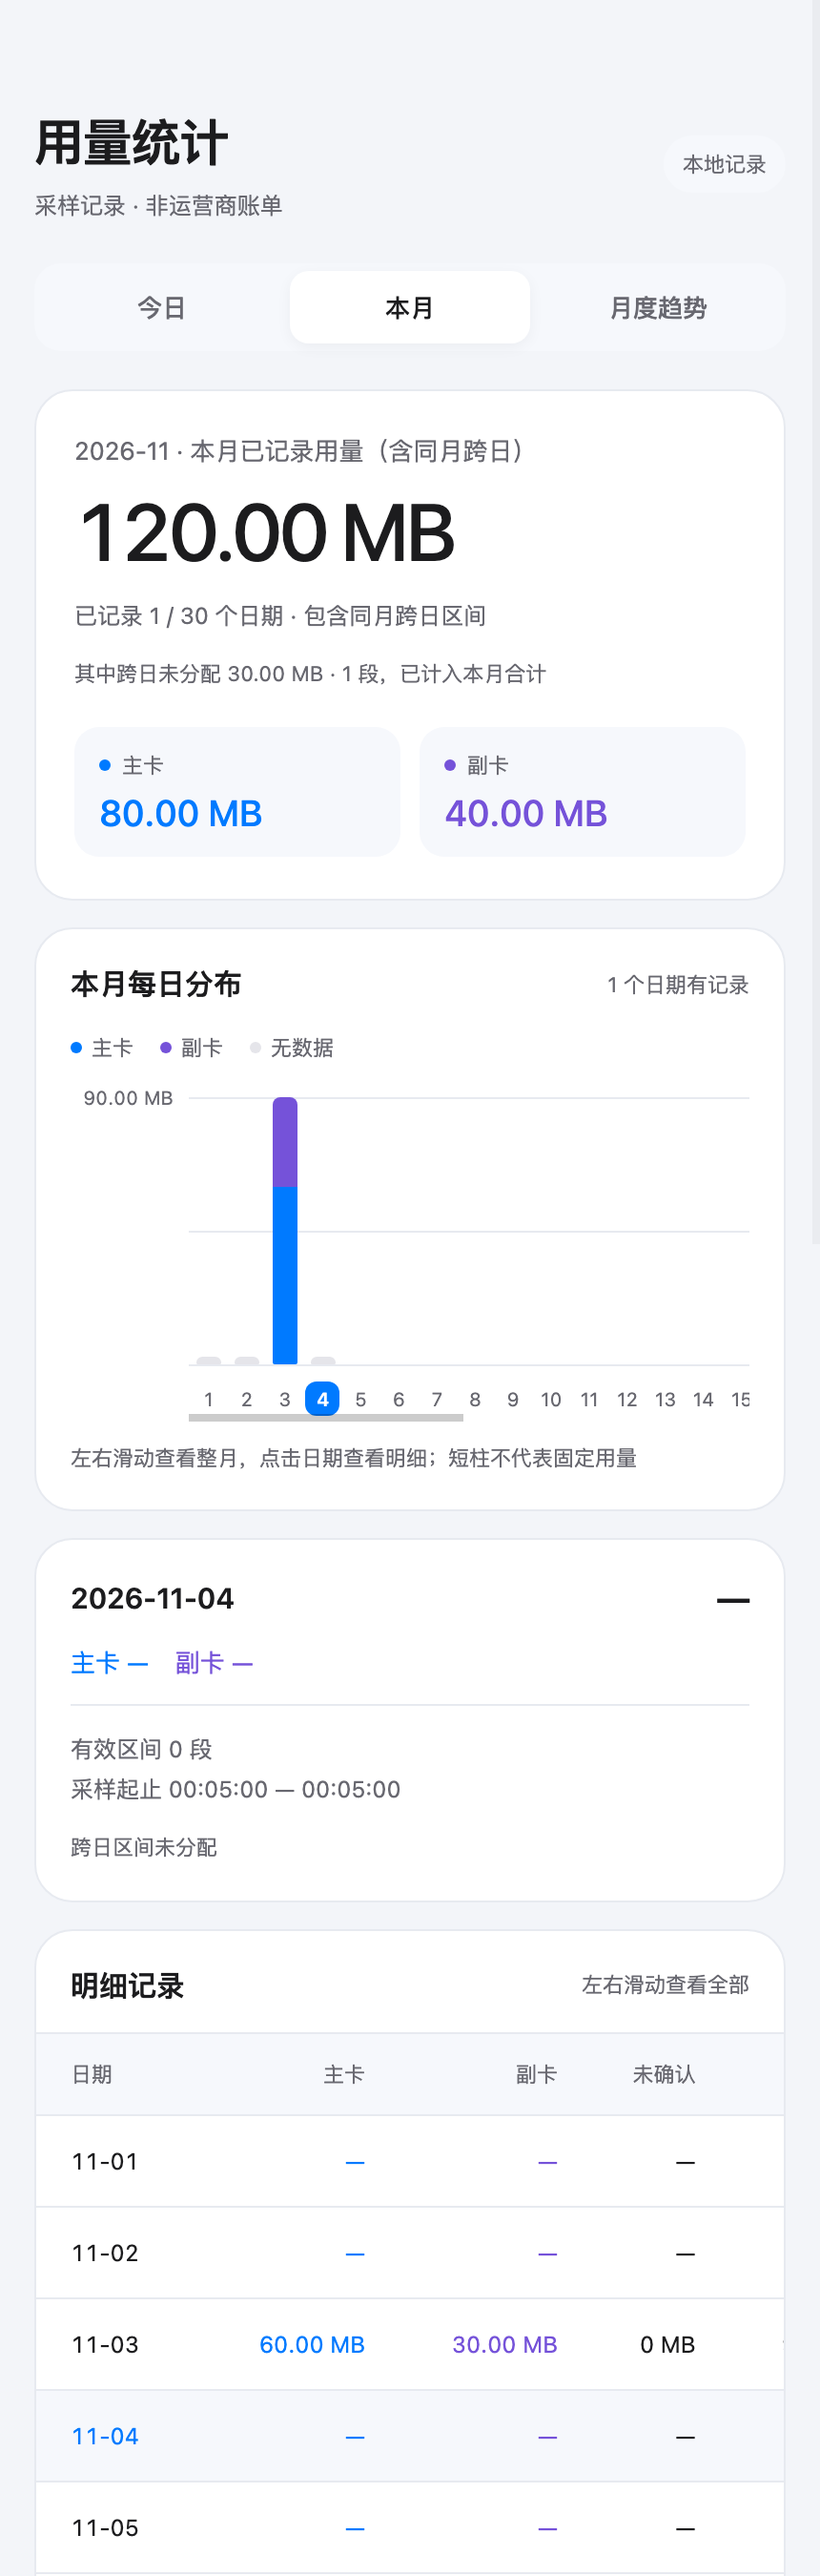
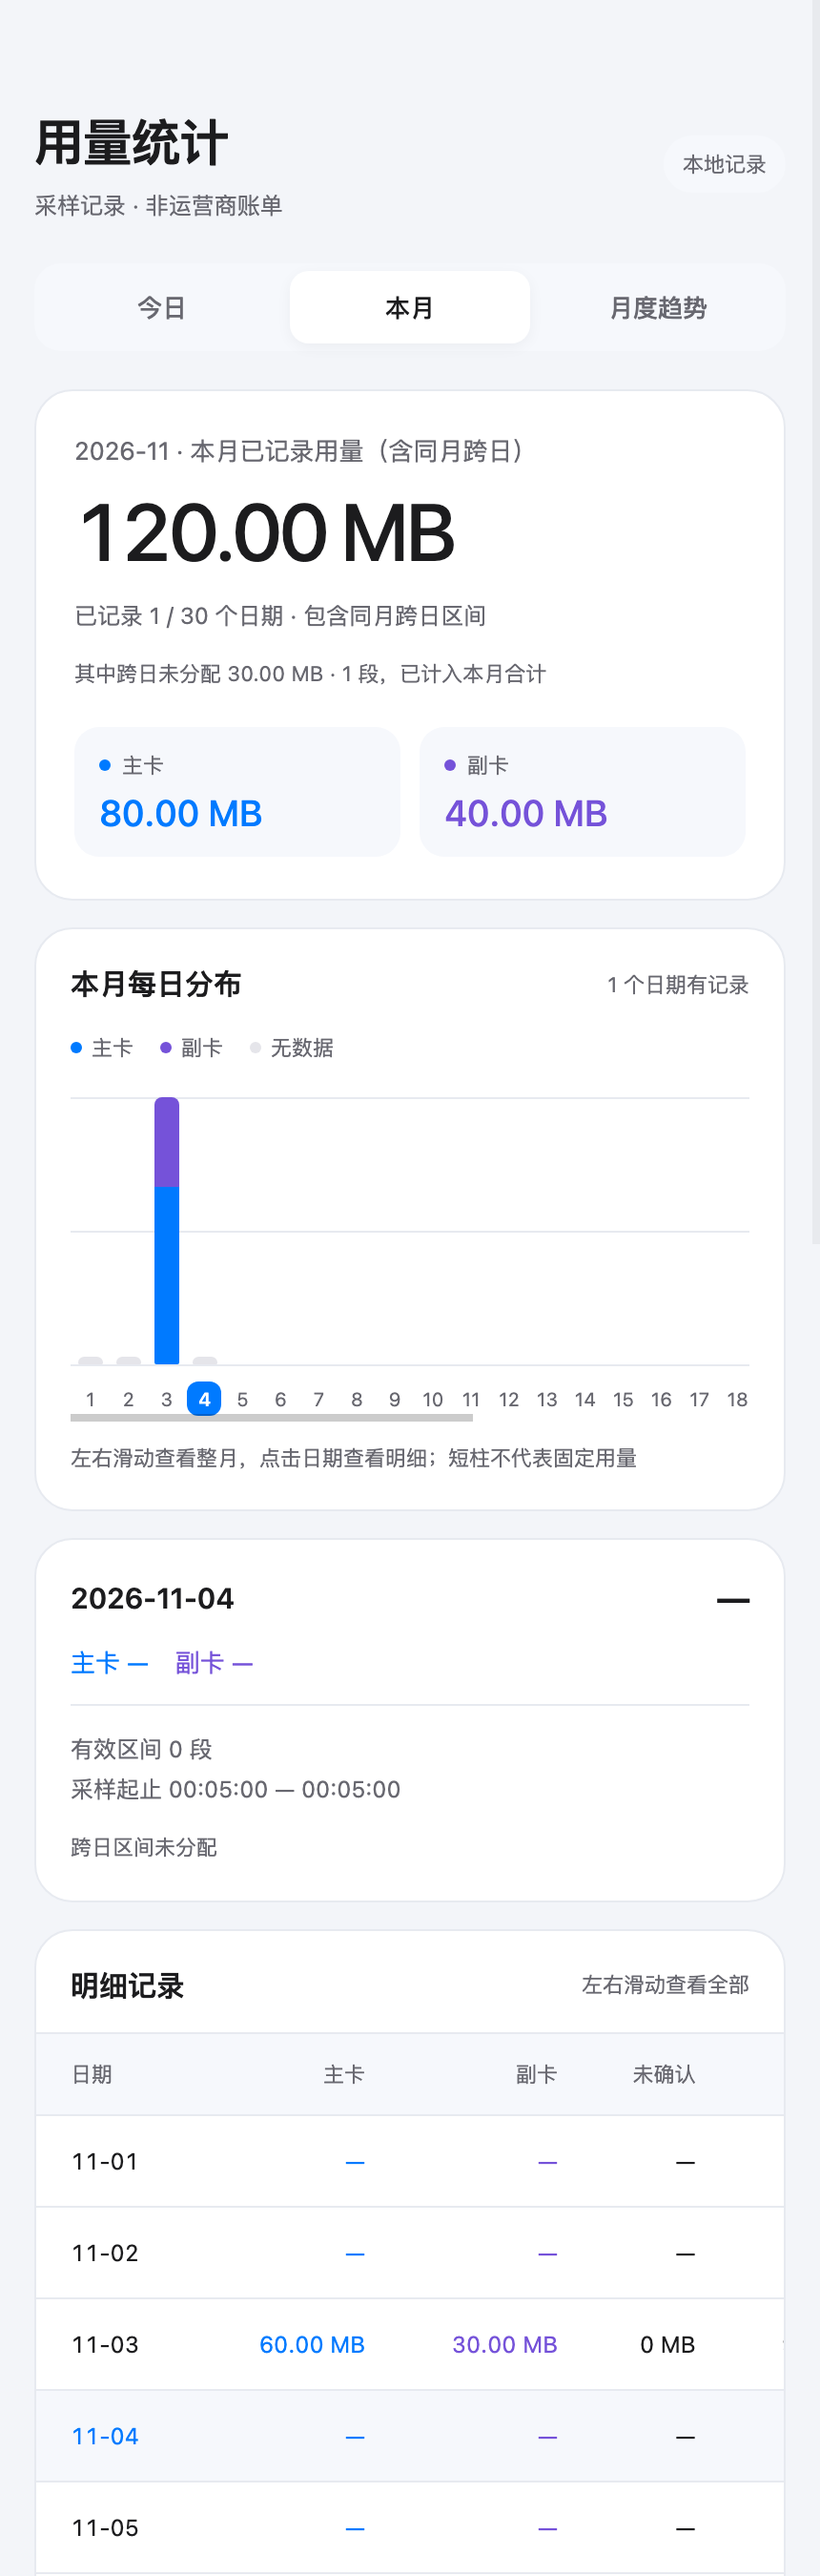
Remove maximum labels and reclaim statistics chart width

Changed region(s): [[0.0907, 0.4044, 0.2721, 0.56], [0.3326, 0.4044, 0.3628, 0.5289], [0.3628, 0.5289, 0.4233, 0.56]]

diff --git a/scriptable/UnicomFlow.js b/scriptable/UnicomFlow.js
@@ -562,7 +562,7 @@ function statisticsHTML(reports, stale = false, initialPeriod = 'month') {
   .tabs{display:grid;grid-template-columns:repeat(3,1fr);padding:4px;background:var(--soft);border-radius:14px;gap:4px;margin-bottom:20px}.tab{border:0;background:transparent;padding:10px 4px;border-radius:10px;color:var(--muted);font-size:13px;font-weight:500}.tab.active{background:var(--surface);color:var(--text);box-shadow:0 2px 8px #0000000c}
   .card{background:var(--surface);border:1px solid var(--line);border-radius:20px;padding:18px;margin-bottom:14px;min-width:0}.hero{padding:22px 20px}.period-label{font-size:13px;color:var(--muted)}.total{margin:10px 0 12px;font-variant-numeric:tabular-nums;letter-spacing:-1.5px;font-size:42px;font-weight:500;line-height:1.1}.total small{font-size:17px;letter-spacing:0;color:var(--muted);font-weight:400;margin-left:7px}.coverage{font-size:12px;color:var(--muted);line-height:1.6}.totals{display:grid;grid-template-columns:1fr 1fr;gap:10px;margin-top:18px}.mini{padding:12px 13px;border-radius:13px;background:var(--soft)}.mini-label{font-size:11px;color:var(--muted);display:flex;align-items:center;gap:6px}.mini strong{display:block;font-size:19px;font-weight:500;font-variant-numeric:tabular-nums;margin-top:6px}.main{color:var(--blue)}.vice{color:var(--purple)}.unconfirmed{font-size:12px;margin-top:12px;color:var(--warning)}
   h2{font-size:15px;font-weight:600;margin:0}.card-head{display:flex;justify-content:space-between;align-items:center;gap:8px}.hint{font-size:11px;color:var(--muted)}.legend{display:flex;flex-wrap:wrap;gap:14px;font-size:11px;color:var(--muted);margin:15px 0 8px}.legend span{display:inline-flex;align-items:center;gap:5px}.dot{display:inline-block;width:6px;height:6px;border-radius:50%;flex-shrink:0}.blue{background:var(--blue)}.purple{background:var(--purple)}.amber{background:var(--warning)}.gray{background:#${UF.track}}
-  .scroll{overflow-x:auto;max-width:100%;-webkit-overflow-scrolling:touch}.plot{display:flex;gap:8px}.axis{position:relative;flex:0 0 54px;color:var(--muted);font-size:10px;font-variant-numeric:tabular-nums}.axis-max{position:absolute;right:0;top:10px;transform:translateY(-50%);white-space:nowrap}.plot>.scroll{flex:1;min-width:0}.chart{display:flex;align-items:stretch;gap:5px;height:180px;padding:8px 3px 3px;background:repeating-linear-gradient(to bottom,var(--line) 0,var(--line) 1px,transparent 1px,transparent 70px);background-size:100% 141px;background-position:0 10px;background-repeat:no-repeat}.bar{flex:1;min-width:14px;padding:0 1px;border:0;background:transparent;border-radius:6px;display:flex;align-items:center;justify-content:flex-end;flex-direction:column;gap:9px}.fill{display:flex;flex-direction:column-reverse;overflow:hidden;width:100%;border-radius:4px 4px 1px 1px;background:var(--purple)}.fill.missing{background:#${UF.track}}.fill.future{background:transparent}.segment{display:block;width:100%;flex-shrink:0}.tick{height:18px;min-width:18px;padding:2px 4px;line-height:14px;border-radius:6px;font-size:10px;color:var(--muted);white-space:nowrap}.bar.selected .tick{background:var(--blue);color:#fff;font-weight:600}.chart-foot{margin-top:10px;line-height:1.6;font-size:11px;color:var(--muted)}
+  .scroll{overflow-x:auto;max-width:100%;-webkit-overflow-scrolling:touch}.chart{display:flex;align-items:stretch;gap:5px;height:180px;padding:8px 3px 3px;background:repeating-linear-gradient(to bottom,var(--line) 0,var(--line) 1px,transparent 1px,transparent 70px);background-size:100% 141px;background-position:0 10px;background-repeat:no-repeat}.bar{flex:1;min-width:14px;padding:0 1px;border:0;background:transparent;border-radius:6px;display:flex;align-items:center;justify-content:flex-end;flex-direction:column;gap:9px}.fill{display:flex;flex-direction:column-reverse;overflow:hidden;width:100%;border-radius:4px 4px 1px 1px;background:var(--purple)}.fill.missing{background:#${UF.track}}.fill.future{background:transparent}.segment{display:block;width:100%;flex-shrink:0}.tick{height:18px;min-width:18px;padding:2px 4px;line-height:14px;border-radius:6px;font-size:10px;color:var(--muted);white-space:nowrap}.bar.selected .tick{background:var(--blue);color:#fff;font-weight:600}.chart-foot{margin-top:10px;line-height:1.6;font-size:11px;color:var(--muted)}
   .selected-heading{display:flex;align-items:center;justify-content:space-between;gap:12px}.selected-value{font-size:21px;font-weight:500;letter-spacing:-.4px}.selected-cards{display:flex;flex-wrap:wrap;gap:14px;margin:13px 0;font-size:13px}.detail{border-top:1px solid var(--line);padding-top:12px;color:var(--muted);font-size:12px;line-height:1.8;white-space:pre-line;overflow-wrap:anywhere}.status-note{margin:10px 0 0;font-size:11px;line-height:1.7;color:var(--muted)}
   .table-card{padding:18px 0 0;overflow:hidden}.table-card .card-head{padding:0 18px 14px}table{width:100%;min-width:545px;border-collapse:collapse;font-variant-numeric:tabular-nums}th,td{text-align:right;border-top:1px solid var(--line);padding:13px 12px;white-space:nowrap;font-size:12px}th{font-size:11px;font-weight:400;color:var(--muted);background:var(--soft)}th:first-child,td:first-child{text-align:left;position:sticky;left:0;z-index:1;background:var(--surface);padding-left:18px}th:first-child{background:var(--soft)}td:last-child{color:var(--muted);font-size:11px}tr.selected td{background:#${soft}}.date{border:0;padding:3px 0;background:none;color:var(--text);font-size:12px}tr.selected .date{color:var(--blue)}
   details{color:var(--muted);font-size:12px;line-height:1.8}summary{cursor:pointer;color:var(--text);font-size:13px;font-weight:500}details p{margin:10px 0 0}.cross-event{padding:10px 0;border-top:1px solid var(--line);font-size:12px;line-height:1.7;white-space:pre-line}footer{white-space:pre-line;color:var(--muted);font-size:11px;line-height:1.8;text-align:center;margin-top:20px}.range-note{margin:12px 0 0;color:var(--muted);font-size:11px;line-height:1.7}
@@ -570,7 +570,7 @@ function statisticsHTML(reports, stale = false, initialPeriod = 'month') {
   <header><div><h1>用量统计</h1><div class="eyebrow">采样记录 · 非运营商账单</div></div><span class="badge${stale ? ' cached' : ''}">${stale ? '缓存数据' : '本地记录'}</span></header>
   <nav class="tabs" aria-label="统计周期"><button class="tab" id="tab-hours" type="button">今日</button><button class="tab" id="tab-month" type="button">本月</button><button class="tab" id="tab-year" type="button">月度趋势</button></nav>
   <section class="card hero"><div class="period-label" id="period-label"></div><div class="total" id="total"></div><div class="coverage" id="coverage"></div><div id="cross-hint" class="range-note" hidden></div><div class="totals"><div class="mini"><div class="mini-label"><i class="dot blue"></i><span id="main-label">主卡</span></div><strong id="main-total" class="main"></strong></div><div class="mini"><div class="mini-label"><i class="dot purple"></i><span id="vice-label">副卡</span></div><strong id="vice-total" class="vice"></strong></div></div><div id="unknown-total" class="unconfirmed" hidden></div></section>
-  <section class="card"><div class="card-head"><h2 id="chart-title"></h2><span id="chart-count" class="hint"></span></div><div class="legend"><span><i class="dot blue"></i>主卡</span><span><i class="dot purple"></i>副卡</span><span id="unknown-legend"><i class="dot amber"></i>未确认</span><span><i class="dot gray"></i>无数据</span></div><div class="plot"><div class="axis"><span id="axis-max" class="axis-max"></span></div><div class="scroll"><div id="chart" class="chart"></div></div></div><div id="chart-foot" class="chart-foot"></div></section>
+  <section class="card"><div class="card-head"><h2 id="chart-title"></h2><span id="chart-count" class="hint"></span></div><div class="legend"><span><i class="dot blue"></i>主卡</span><span><i class="dot purple"></i>副卡</span><span id="unknown-legend"><i class="dot amber"></i>未确认</span><span><i class="dot gray"></i>无数据</span></div><div class="scroll"><div id="chart" class="chart"></div></div><div id="chart-foot" class="chart-foot"></div></section>
   <section class="card"><div class="selected-heading"><h2 id="selected"></h2><span id="selected-total" class="selected-value"></span></div><div class="selected-cards"><span id="selected-main" class="main"></span><span id="selected-vice" class="vice"></span><span id="selected-unknown" class="unconfirmed"></span></div><div id="detail" class="detail"></div><p id="selected-note" class="status-note"></p></section>
   <section class="card table-card"><div class="card-head"><h2>明细记录</h2><span class="hint">左右滑动查看全部</span></div><div class="scroll"><table><thead><tr><th id="date-heading"></th><th>主卡</th><th>副卡</th><th>未确认</th><th>合计</th><th>记录情况</th></tr></thead><tbody id="rows"></tbody></table></div></section>
   <section class="card" id="cross-card"><details><summary id="cross-summary"></summary><p id="cross-description"></p><div id="cross-events"></div></details></section>
@@ -578,7 +578,7 @@ function statisticsHTML(reports, stale = false, initialPeriod = 'month') {
   <footer id="updated"></footer></main><script>
   (()=>{
     const reports=${payload}, initial=${JSON.stringify(initialPeriod)};
-    const el=id=>document.getElementById(id), modes={hours:{label:'时段',title:'今日小时分布',width:500},month:{label:'日期',title:'本月每日分布',width:600},year:{label:'月份',title:'近12个月用量',width:360}};
+    const el=id=>document.getElementById(id), modes={hours:{label:'时段',title:'今日小时分布',width:500},month:{label:'日期',title:'本月每日分布',width:600},year:{label:'月份',title:'近12个月用量',width:0}};
     const amount=value=>{if(value==null)return '—';const displayed=value>=1024?value/1024:value;return value===0?'0 MB':displayed.toFixed(2)+(value>=1024?' GB':' MB');};
     const totalFor=(report,key)=>report.period==='months'?report.average[key]:report.summary?report.summary[key]:report.days.some(d=>d.mb!=null)?report.days.reduce((sum,d)=>sum+(d[key]||0),0):null;
     const clock=(time,full)=>time==null?'无':full?new Date(time).toLocaleString('zh-CN',{hour12:false}):new Date(time).toLocaleTimeString('zh-CN',{hour12:false});
@@ -605,8 +605,6 @@ function statisticsHTML(reports, stale = false, initialPeriod = 'month') {
       el('chart-title').textContent=mode.title;el('chart-count').textContent=recorded+' 个'+mode.label+'有记录';el('date-heading').textContent=mode.label;
       el('chart').style.minWidth=mode.width+'px';el('chart').replaceChildren();el('rows').replaceChildren();
       const peak=Math.max(0,...report.days.map(d=>d.future?0:d.mb||0)),max=peak||1;
-      const peakDisplayed=peak>=1024?peak/1024:peak;
-      el('axis-max').hidden=peak===0;el('axis-max').textContent=peak>0?peakDisplayed.toFixed(peakDisplayed>10?1:2).replace(/\.0+$/,'')+(peak>=1024?' GB':' MB'):'';
       for(const d of report.days){
         const button=document.createElement('button');button.type='button';button.className='bar';button.dataset.key=d.key;button.setAttribute('aria-label',d.key+' '+amount(d.mb));
         const fill=document.createElement('span');fill.className='fill'+(d.future?' future':d.mb==null?' missing':'');fill.style.height=(d.future?0:d.mb==null?4:Math.max(4,d.mb/max*140))+'px';

diff --git a/docs/unicom-flow/README.md b/docs/unicom-flow/README.md
@@ -94,7 +94,7 @@
 
 ## 历史图
 
-数值精度：组件普通已用量（含共享池主副明细）保留一位小数，今日主副卡用量保留两位；不足 1MB 始终保留两位，不换算 KB；仅使用 MB／GB。套餐总量默认一位，小数尾零去除（如 `120GB`、`80.5GB`）。统计网页非零用量统一两位；图表最大值标签保留原有简洁刻度（超过 10 一位、其余两位，整值去掉小数尾零），无数据为 `—`，确认零用量为 `0MB`（网页单位前留空格），百分比仍为整数。只改变显示，不改变统计精度或历史数据。
+数值精度：组件普通已用量（含共享池主副明细）保留一位小数，今日主副卡用量保留两位；不足 1MB 始终保留两位，不换算 KB；仅使用 MB／GB。套餐总量默认一位，小数尾零去除（如 `120GB`、`80.5GB`）。统计网页非零用量统一两位，无数据为 `—`，确认零用量为 `0MB`（网页单位前留空格），百分比仍为整数。只改变显示，不改变统计精度或历史数据。
 
 中号小时柱稍窄，图表底边保持不动、向上增加高度，标题和今日图例同步上移；图表标题为“今日用量”，图表右上角分两行显示“蓝点＋主卡今日已记录用量、紫点＋副卡今日已记录用量”，整组靠图表右边界，组内两行圆点与文字起点分别左对齐，底部保留更新时间，文字沿用灰色，MB／GB 自动换算。无记录显示 `—`，确认零增量才显示零；归属未知的部分不强行分配给主副卡，其明细保留在统计网页，组件不再显示“未分”图例，图表仍保留未知归属色段，因此两张卡数字之和可能小于图表总量。小号和共享池下方图例保持不变。中号显示今天 00—23 时的采样区间增量（通用＋定向）。一次查询的增量等于本次累计已用减去上次累计已用，并记在本次查询所在小时。长间隔不会平均分配到每个小时，因此柱高可能代表几个小时的累计变化；这不是联通提供的精确小时用量。运营商记账也可能存在延迟。
 
@@ -113,7 +113,7 @@
 
 从 Scriptable 运行脚本，在“账户与数据 → 用量统计”进入统一页面，通过顶部“今日／本月／月度趋势”切换。打开页面只查询一次，之后切换周期、点击柱子和表格都使用同一份记录，不额外请求联通。原有历史文件与统计口径不变，不会因界面更新清空记录。
 
-页面禁止双击缩放，并为 Scriptable 的 Close／分享工具栏预留 56 点顶部距离，不重复叠加系统安全区；保留页面、图表和表格的正常滑动。页面使用当前黑白主题的卡片布局，分别展示总览、主副卡汇总、堆叠图、选中记录与明细表。图表左侧固定显示实际最大用量，与最高柱及顶部参考线对齐；无数据或全零时隐藏标签，不显示其他纵轴刻度。图表选中项只高亮日期标签，不再以整列边框包围柱子，主副卡柱子的颜色保持不变。无数据、归属未确认、跨日待分配、缓存状态都有独立提示。明细表首列固定，宽表可横向滑动。桌面图表仍保持今日小时视图，不增加小号内容。
+页面禁止双击缩放，并为 Scriptable 的 Close／分享工具栏预留 56 点顶部距离，不重复叠加系统安全区；保留页面、图表和表格的正常滑动。页面使用当前黑白主题的卡片布局，分别展示总览、主副卡汇总、堆叠图、选中记录与明细表。图表不显示纵轴刻度和最大值标签，不预留左侧轴栏，保留横向参考线；点击柱子查看准确用量。图表选中项只高亮日期标签，不再以整列边框包围柱子，主副卡柱子的颜色保持不变。无数据、归属未确认、跨日待分配、缓存状态都有独立提示。明细表首列固定，宽表可横向滑动。桌面图表仍保持今日小时视图，不增加小号内容。
 
 ### 今日视图（按小时）
 
